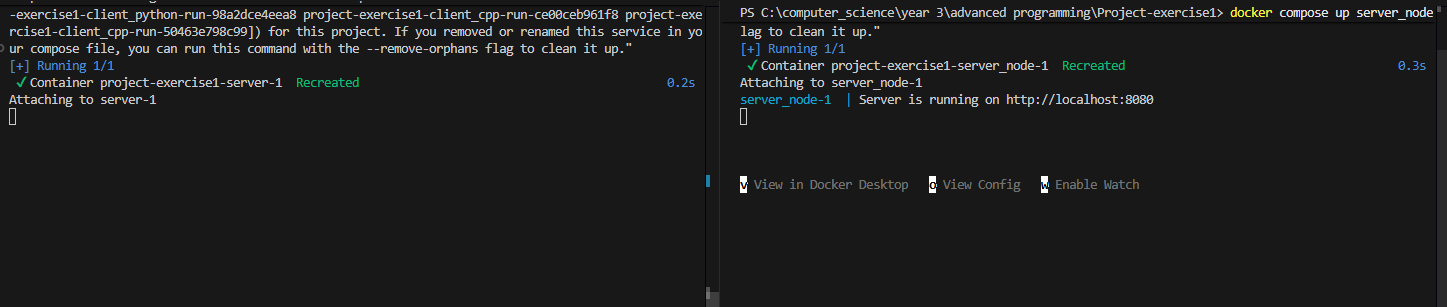
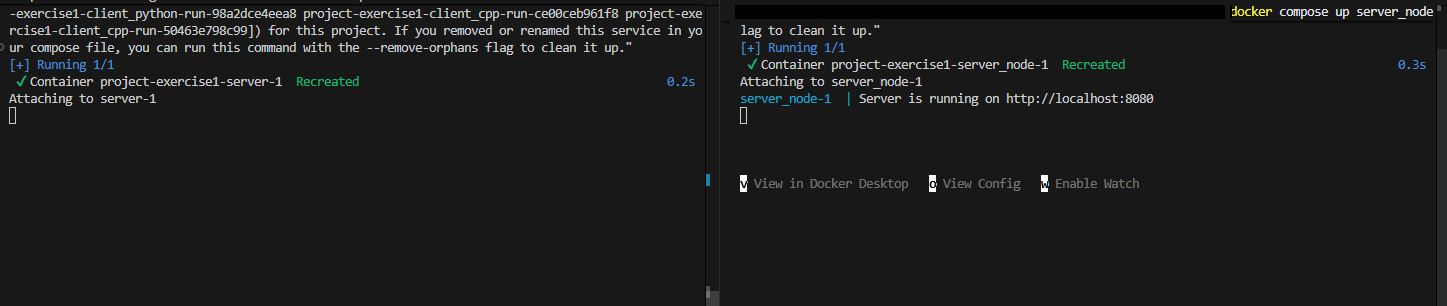
update readme

diff --git a/README.md b/README.md
@@ -349,9 +349,11 @@ HTTP/1.1 200 OK
 
 {"files":[{"id":2,"name":"notes.txt","type":"file","date":1766845772519,"folderParent":null,"content":"this content was updated via PATCH"}]}
 
-$
 
 
+
+
+---------------------------------------------------------------------------------------------------------------------------
 
 ## clients and servers running examples 📡 📤
 
